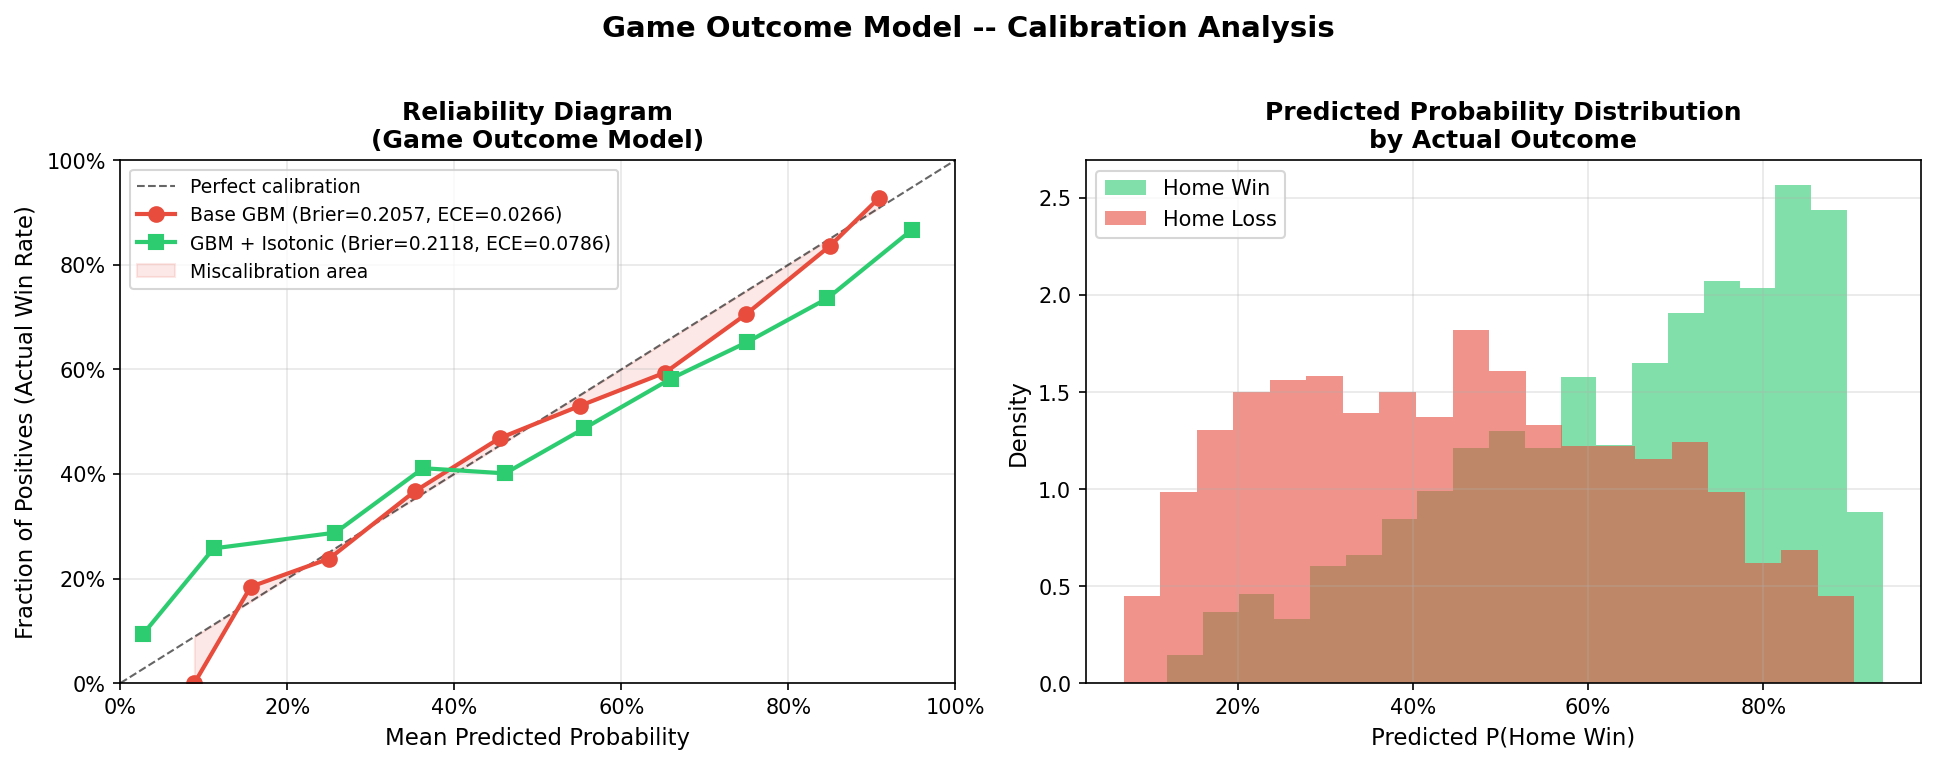
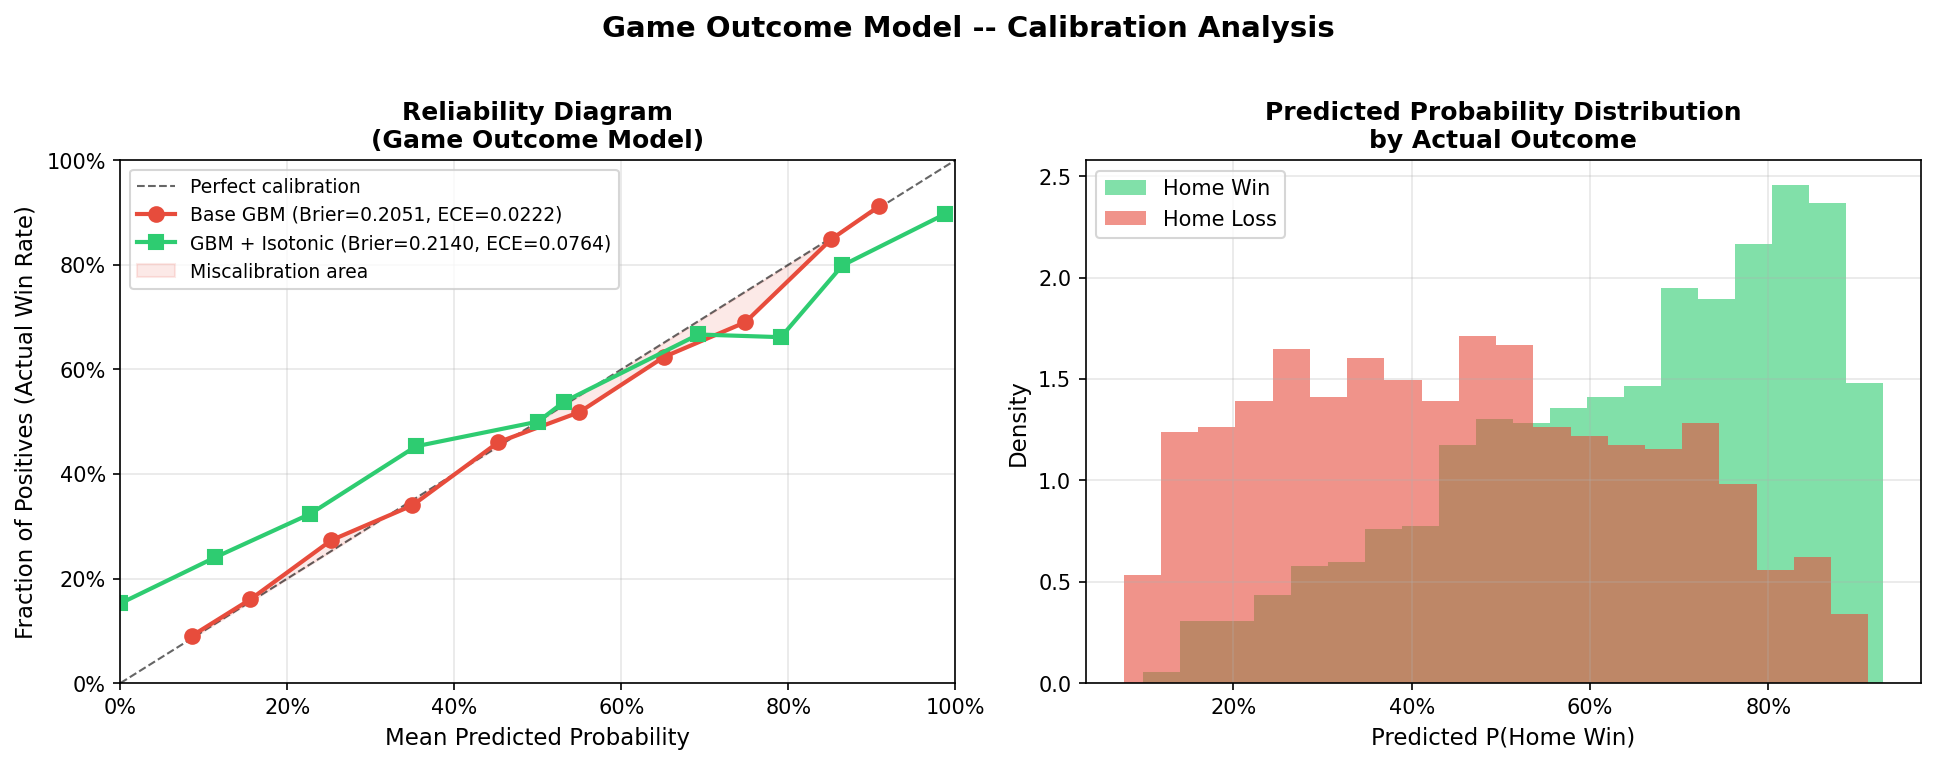
docs(session): wrap up Phase 1 session — journal, overview, working memory, CLAUDE.md
- PROJECT_JOURNAL.md: added 2026-03-06 Phase 1 entry (CF-1 + CF-2 fixes, results)
- PROJECT_OVERVIEW.md: updated to v2.1 results (AUC 0.7419, ATS 54.9%)
- WORKING_NOTES.md: core insights refreshed; added [ats] and [injury] domain notes
- CLAUDE.md: updated current state, added ATS Brier rule + injury CSV recovery rule

diff --git a/WORKING_NOTES.md b/WORKING_NOTES.md
@@ -4,14 +4,14 @@
 
 - `shift(1)` before ALL rolling features -- data leakage is the #1 silent killer of model validity
 - Expanding-window validation only; ALL inference paths load `game_outcome_model_calibrated.pkl`, not base .pkl
-- sys.path must include PROJECT_ROOT before any model load (src.* class path must be importable for pickle)
+- sys.path must include PROJECT_ROOT before any model load (src.* class path must be importable during deserialization)
 - update.py step 3: call BOTH `build_team_game_features()` AND `build_matchup_dataset()`; step 6: writes 9 predictions/night to `predictions_history.db`
-- Injury proxy join uses bare `except Exception` -- silent failure drops injury cols; merge injury_proxy_features.csv directly to fix
+- ATS model selection uses `min(brier_score_loss)` NOT `max(accuracy)` -- University of Bath: accuracy-opt = -35% ROI, calibration-opt = +35% ROI; CALIBRATION_SEASON="202122" held out from CV
 - NBA API game_date: use `format="mixed"` in ALL pd.to_datetime() calls; never use Unicode arrow in print() (cp1252); season codes are integers (`202425`)
 - Pinnacle guest API (https://guest.api.arcadia.pinnacle.com/0.1, league 487) -- no auth, no quota; filter matchups to parentId=None + alignment=home/away; ODDS_API_KEY removed
 - `database/nba.db` is empty/legacy; pipeline is CSV-based; only `predictions_history.db` is active
 - 145 tests passing; run with `.venv/Scripts/python.exe -m pytest tests/ -q`
-- Basketball Reference scraper blocked by Cloudflare on Windows; nba_api is the primary live data source
+- injury_proxy.py primary path requires `data/processed/player_absences.csv`; if missing, fallback produces all-zero injury cols silently; regenerate with `python src/data/get_historical_absences.py`
 
 ## Domain Notes
 
@@ -53,8 +53,16 @@
 
 ### [injury]
 
-[2026-03-05] [injury] INSIGHT: build_team_game_features() silently drops injury proxy columns when build_injury_proxy_features() raises any exception — bare `except Exception` swallows it, CSV is written without those columns, and fetch_odds.py falls back to proxy win-prob model.
+[2026-03-05] [injury] INSIGHT: build_team_game_features() silently drops injury proxy columns when build_injury_proxy_features() raises any exception -- bare `except Exception` swallows it, CSV is written without those columns, and fetch_odds.py falls back to proxy win-prob model.
 [2026-03-05] [injury] WHY: Fix: merge injury_proxy_features.csv directly into team_game_features.csv then rebuild matchup dataset. Root cause: except block should only catch ImportError, not all exceptions.
+
+[2026-03-06] [injury] INSIGHT: get_historical_absences.py crashed with ValueError on current-season game_dates due to time suffix ("YYYY-MM-DD 00:00:00") -- same format="mixed" issue as other files.
+[2026-03-06] [injury] WHY: Added format="mixed" to line 102. After fix: 1,098,538 rows generated (75 seasons), 12.6% absence rate. injury_proxy.py primary path now works -- 60.9% of games have missing_minutes > 0, 9.2% have star_player_out.
+
+### [ats]
+
+[2026-03-06] [ats] INSIGHT: ATS model was selecting on max(accuracy) -- University of Bath research shows calibration-optimized = +34.69% ROI vs accuracy-optimized = -35.17% ROI on NBA data. Switching to min(brier_score_loss) changed selected model from logistic to logistic_l1 and improved test accuracy from 53.5% to 54.9%.
+[2026-03-06] [ats] WHY: Brier score measures probability calibration quality, not just correct/wrong. A well-calibrated model assigns higher probability to home-covers bets that actually cover, enabling more reliable Kelly sizing. Accuracy metric ignores probability magnitude entirely.
 
 ### [api]
 

diff --git a/PROJECT_JOURNAL.md b/PROJECT_JOURNAL.md
@@ -4,6 +4,30 @@ Append a dated entry at the start of each session. Keep entries brief — just w
 
 ---
 
+## 2026-03-06 — Model Improvement Phase 1 (complete)
+
+**Done:**
+- Deployed 5 parallel research agents to identify highest-leverage model improvements. Synthesized into prioritized plan at `docs/plans/2026-03-06-model-improvement-research.md`.
+- **CF-2 (injury features zero-filled) — FIXED:** `get_historical_absences.py` was crashing on game_date time suffix; added `format="mixed"`. Generated `data/processed/player_absences.csv` (1,098,538 rows, 12.6% absence rate, 75 seasons). `injury_proxy.py` now uses primary path — 60.9% of games have non-zero missing_minutes (was 0% before). Rebuilt `game_matchup_features.csv` (68,216 rows x 291 cols). After retraining: 11 injury features appear in importances; `home_rotation_availability` is rank #5. AUC improved 0.7256 -> **0.7419**.
+- **CF-1 (ATS optimizing wrong metric) — FIXED:** Switched ATS model selection from `max(accuracy)` to `min(brier_score_loss)`. Added `CALIBRATION_SEASON="202122"` held out from expanding-window CV. `calibration.py` now fits isotonic calibrator on held-out 2021-22 season (1,230 games, no in-sample leakage). ATS retrained: `logistic_l1` selected (vs old accuracy-based winner), test accuracy **54.9%** (up from 53.5%), AUC 0.5571. Metadata includes `validation_mean_brier` and `calibration_season` fields.
+- Fixed Unicode `→` arrows in 3 model files that crashed on Windows cp1252 (`game_outcome_model.py`, `playoff_odds_model.py`, `train_all_models.py`).
+- Spec written and completed: `docs/specs/2026-03-06-model-improvement-phase1.md`.
+- 145 tests passing throughout; 0 regressions.
+
+**Files changed:**
+- `src/data/get_historical_absences.py` — `format="mixed"` fix for game_date parsing
+- `src/models/ats_model.py` — Brier score selection, calibration split, metadata update
+- `src/models/calibration.py` — held-out calibration season parameter
+- `src/models/game_outcome_model.py`, `playoff_odds_model.py`, `train_all_models.py` — Unicode arrow fix
+- `.planning/codebase/CONCERNS.md` — two issues marked RESOLVED
+- `HANDOFF.md` — updated to reflect new model state
+- `docs/plans/2026-03-06-model-improvement-research.md` — new research synthesis
+- `docs/specs/2026-03-06-model-improvement-phase1.md` — new spec (COMPLETE)
+
+**Next:** Add LightGBM candidate model, Pythagorean win% feature, Fractional Kelly sizing, CLV tracking.
+
+---
+
 ## 2026-03-06 — Pinnacle API migration (complete)
 
 **Done:**

diff --git a/CLAUDE.md b/CLAUDE.md
@@ -1,7 +1,7 @@
 # NBA Analytics Project
 
 ## What This Is
-Python NBA analytics pipeline: data ingestion → feature engineering → game outcome prediction (68%) → ATS betting model (53.5%, +2.2% ROI) → prediction store (9 predictions/night via ScoreboardV2) → web dashboard. v2.0 complete. Odds: Pinnacle guest API (free, keyless, live). Next: v3.0 web dashboard polish.
+Python NBA analytics pipeline: data ingestion → feature engineering → game outcome prediction (67.4%, AUC 0.742) → ATS betting model (54.9%, Brier-optimized, calibration_season=202122) → prediction store → web dashboard. v2.1 complete. Odds: Pinnacle guest API (free, keyless, live). Next: LightGBM, Pythagorean win%, CLV tracking.
 
 ## Stack
 Python 3.14+, pandas, scikit-learn, SQLite, Chart.js dashboard. No npm/Node.
@@ -33,7 +33,8 @@ Runs on Windows 11. Shell: Git Bash. Use forward slashes in paths. Activate venv
 - NBA API (nba_api): throttle at 1 req/sec minimum; never loop without sleep; shot chart fetch is 3-4h — never run in daily pipeline
 - `pd.to_datetime()` on game_date must use `format="mixed"` — NBA API sends "YYYY-MM-DD 00:00:00" for current season, plain dates for history
 - `update.py` step 3: call both `build_team_game_features()` AND `build_matchup_dataset()`; step 6: `generate_today_predictions()` writes to predictions_history.db
-- If injury cols missing from matchup CSV — injury proxy join silently failed (bare `except Exception`); fix: merge `injury_proxy_features.csv` into `team_game_features.csv` then rebuild matchup
+- If injury cols missing from matchup CSV — `player_absences.csv` may be missing; run `get_historical_absences.py` first, then rebuild injury_proxy + matchup
+- ATS model selection uses `min(brier_score_loss)` NOT accuracy — never revert to accuracy; CALIBRATION_SEASON="202122" is permanently held out from CV
 - Never use Unicode → in print() — Windows cp1252 raises UnicodeEncodeError; use `->` instead
 - After any debug session or non-obvious fix → invoke `working-memory` skill to extract insight
 

diff --git a/PROJECT_OVERVIEW.md b/PROJECT_OVERVIEW.md
@@ -1,15 +1,15 @@
 # NBA Analytics Project — Overview
 
-End-to-end NBA analytics system: data ingestion → feature engineering → game outcome prediction (68%) → ATS betting model (53.5%, +2.2% ROI) → prediction store → web dashboard.
+End-to-end NBA analytics system: data ingestion → feature engineering → game outcome prediction (67.4%, AUC 0.742) → ATS betting model (54.9%, Brier-optimized) → prediction store → web dashboard.
 
-## v2.0 Results (March 2026)
-- Game outcome model: **68% accuracy** (up from 66.8% in v1)
-- ATS model: **53.5%** (+2.2% holdout ROI — above 52.4% breakeven)
-- Feature matrix: 291-column matchup CSV (incl. injury proxy features), rebuilt daily via `update.py`
-- Prediction store: `predictions_history.db` — 9 predictions written for Mar 5 games; healthy
+## v2.1 Results (March 2026)
+- Game outcome model: **67.4% accuracy, AUC 0.7419** — injury features active for the first time (home_rotation_availability rank #5 in importances); 11 injury features now contributing
+- ATS model: **54.9% accuracy** (up from 53.5%) — now selects on Brier score (calibration), not accuracy; 2021-22 held-out calibration split
+- Feature matrix: 291-column matchup CSV; 60.9% of games have non-zero missing_minutes (was 0% before Phase 1)
+- `player_absences.csv`: 1,098,538 rows, 75 seasons, 12.6% absence rate — fully wired into injury pipeline
 - Tests: 145 passing
 - Pipeline: fully operational; daily `update.py` refreshes data + features + predictions in one command
-- **Odds source:** Pinnacle guest API (free, keyless, no quota) — game_lines.csv now populates live with NBA moneylines + spreads; model_vs_odds.csv compares model probabilities to market lines
+- **Odds source:** Pinnacle guest API (free, keyless, no quota) — game_lines.csv populates live with NBA moneylines + spreads
 
 ## Key Links
 - **Architecture & full description:** [`docs/project_overview.md`](docs/project_overview.md)
